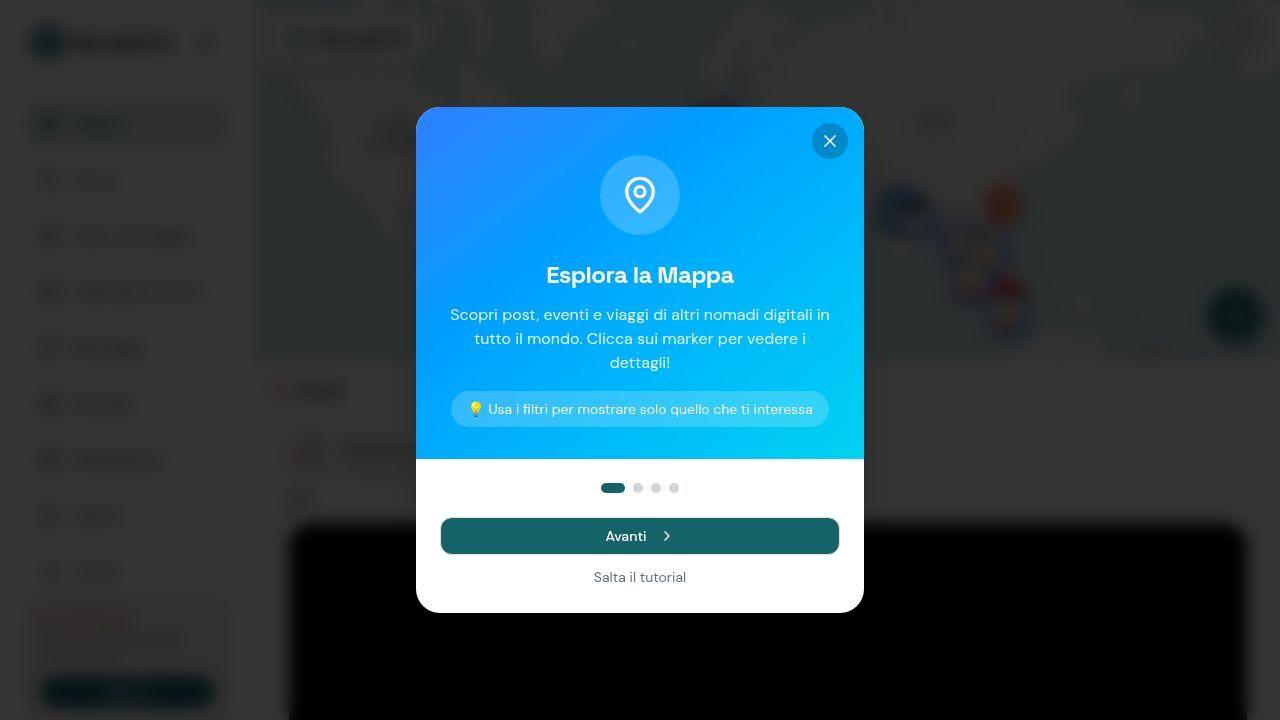
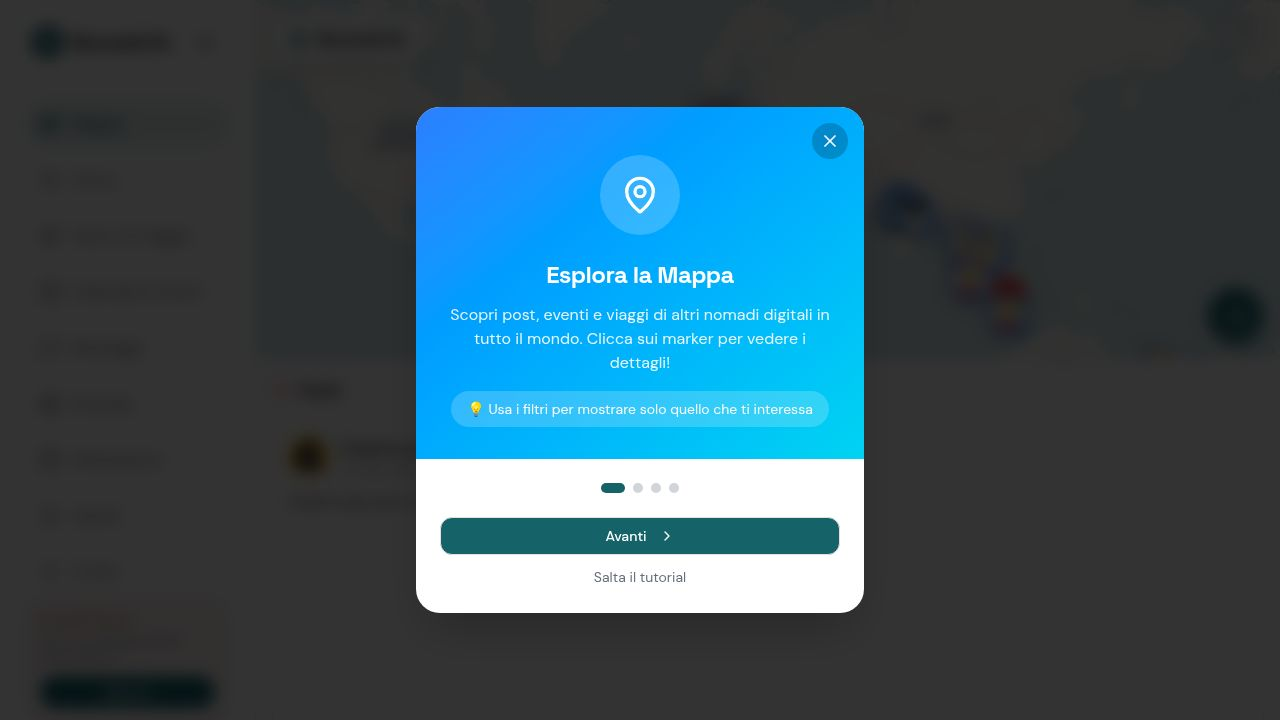
Organize saved posts by time and add timeago display
Adds date grouping and timeago formatting to the saved posts page for better temporal organization.

Replit-Commit-Author: Agent
Replit-Commit-Session-Id: df86f0ff-2318-4ff1-a21b-c09623509764
Replit-Commit-Checkpoint-Type: full_checkpoint
Replit-Commit-Event-Id: 7425e8d1-1d94-4657-a31a-2d4e4a1d25e9
Replit-Commit-Screenshot-Url: https://storage.googleapis.com/screenshot-production-us-central1/2f2ee5f6-d4f3-4be6-99b5-e797923fa171/df86f0ff-2318-4ff1-a21b-c09623509764/fFJnukg
Replit-Helium-Checkpoint-Created: true

Changed region(s): [[0.2188, 0.7028, 1.0, 1.0], [0.2188, 0.6111, 0.25, 0.6722], [0.7812, 0.275, 0.8125, 0.3056]]

diff --git a/client/src/pages/saved-posts.tsx b/client/src/pages/saved-posts.tsx
@@ -1,10 +1,135 @@
-import { useEffect, useState } from "react";
+import { useEffect, useState, useMemo } from "react";
 import Layout from "@/components/layout";
 import { useAuth } from "@/lib/auth";
 import { useLocation } from "wouter";
-import { Bookmark, ArrowLeft, MapPin, Heart, Loader2 } from "lucide-react";
+import { Bookmark, ArrowLeft, MapPin, Heart, Loader2, Clock, Calendar } from "lucide-react";
 import { motion, AnimatePresence } from "framer-motion";
 import { useI18n } from "@/lib/i18n";
+
+function timeAgo(dateStr: string): string {
+  const now = new Date();
+  const date = new Date(dateStr);
+  const diffMs = now.getTime() - date.getTime();
+  const diffMin = Math.floor(diffMs / 60000);
+  const diffH = Math.floor(diffMin / 60);
+  const diffD = Math.floor(diffH / 24);
+
+  if (diffMin < 1) return "Adesso";
+  if (diffMin < 60) return `${diffMin} min fa`;
+  if (diffH < 24) return `${diffH}h fa`;
+  if (diffD === 1) return "Ieri";
+  if (diffD < 7) return `${diffD} giorni fa`;
+  return date.toLocaleDateString("it-IT", { day: "numeric", month: "short", year: diffD > 365 ? "numeric" : undefined });
+}
+
+function groupByPeriod(posts: any[]): { label: string; icon: string; posts: any[] }[] {
+  const now = new Date();
+  const todayStart = new Date(now.getFullYear(), now.getMonth(), now.getDate());
+  const yesterdayStart = new Date(todayStart.getTime() - 86400000);
+  const weekStart = new Date(todayStart.getTime() - 7 * 86400000);
+  const monthStart = new Date(now.getFullYear(), now.getMonth(), 1);
+
+  const groups: Record<string, any[]> = {
+    today: [],
+    yesterday: [],
+    thisWeek: [],
+    thisMonth: [],
+    older: [],
+  };
+
+  for (const saved of posts) {
+    const date = new Date(saved.createdAt);
+    if (date >= todayStart) groups.today.push(saved);
+    else if (date >= yesterdayStart) groups.yesterday.push(saved);
+    else if (date >= weekStart) groups.thisWeek.push(saved);
+    else if (date >= monthStart) groups.thisMonth.push(saved);
+    else groups.older.push(saved);
+  }
+
+  const result: { label: string; icon: string; posts: any[] }[] = [];
+  if (groups.today.length > 0) result.push({ label: "Oggi", icon: "🕐", posts: groups.today });
+  if (groups.yesterday.length > 0) result.push({ label: "Ieri", icon: "📅", posts: groups.yesterday });
+  if (groups.thisWeek.length > 0) result.push({ label: "Questa settimana", icon: "📆", posts: groups.thisWeek });
+  if (groups.thisMonth.length > 0) result.push({ label: "Questo mese", icon: "🗓️", posts: groups.thisMonth });
+  if (groups.older.length > 0) result.push({ label: "Precedenti", icon: "📁", posts: groups.older });
+
+  return result;
+}
+
+function SavedPostCard({ saved, onUnsave, onNavigate }: { saved: any; onUnsave: (id: string) => void; onNavigate: (id: string) => void }) {
+  return (
+    <motion.div
+      layout
+      initial={{ opacity: 0, y: 10 }}
+      animate={{ opacity: 1, y: 0 }}
+      exit={{ opacity: 0, scale: 0.95 }}
+      className="bg-card border border-border rounded-2xl overflow-hidden shadow-sm hover:shadow-md transition-shadow cursor-pointer group"
+      onClick={() => onNavigate(saved.postId)}
+      data-testid={`card-saved-${saved.postId}`}
+    >
+      {saved.post?.imageUrl && (
+        <div className="aspect-video overflow-hidden">
+          <img
+            src={saved.post.imageUrl}
+            className="w-full h-full object-cover group-hover:scale-105 transition-transform duration-500"
+            alt=""
+          />
+        </div>
+      )}
+
+      <div className="p-4">
+        <div className="flex items-center gap-2 mb-2">
+          {saved.post?.user?.avatar ? (
+            <img src={saved.post.user.avatar} className="w-8 h-8 rounded-full object-cover" alt="" />
+          ) : (
+            <div className="w-8 h-8 rounded-full bg-primary/10 flex items-center justify-center text-primary font-bold text-sm">
+              {saved.post?.user?.name?.[0] || "?"}
+            </div>
+          )}
+          <div className="flex-1 min-w-0">
+            <p className="text-sm font-semibold truncate" data-testid={`text-author-${saved.postId}`}>{saved.post?.user?.name || "Nomad"}</p>
+            {saved.post?.location && (
+              <p className="text-xs text-muted-foreground flex items-center gap-1 truncate">
+                <MapPin className="w-3 h-3 flex-shrink-0" />
+                {saved.post.location}
+              </p>
+            )}
+          </div>
+          <span className="text-[10px] text-muted-foreground flex items-center gap-1 whitespace-nowrap" data-testid={`text-saved-date-${saved.postId}`}>
+            <Clock className="w-3 h-3" />
+            {timeAgo(saved.createdAt)}
+          </span>
+        </div>
+
+        {saved.post?.content && (
+          <p className="text-sm text-foreground line-clamp-3 mb-3">{saved.post.content}</p>
+        )}
+
+        <div className="flex items-center justify-between">
+          <div className="flex items-center gap-3 text-xs text-muted-foreground">
+            <span className="flex items-center gap-1">
+              <Heart className="w-3.5 h-3.5" /> {saved.post?.likes || 0}
+            </span>
+            {saved.post?.createdAt && (
+              <span className="flex items-center gap-1">
+                <Calendar className="w-3 h-3" />
+                {new Date(saved.post.createdAt).toLocaleDateString("it-IT", { day: "numeric", month: "short" })}
+              </span>
+            )}
+          </div>
+          <button
+            onClick={(e) => { e.stopPropagation(); onUnsave(saved.postId); }}
+            className="flex items-center gap-1.5 px-3 py-1.5 rounded-full bg-primary/10 text-primary text-xs font-medium hover:bg-red-500/15 hover:text-red-500 transition-colors"
+            data-testid={`button-unsave-${saved.postId}`}
+          >
+            <Bookmark className="w-3.5 h-3.5 fill-current" />
+            Rimuovi
+          </button>
+        </div>
+      </div>
+    </motion.div>
+  );
+}
 
 export default function SavedPosts() {
   const { user, loading: authLoading } = useAuth();
@@ -36,6 +161,8 @@ export default function SavedPosts() {
     } catch (err) { console.error(err); }
   };
 
+  const groups = useMemo(() => groupByPeriod(savedPosts), [savedPosts]);
+
   if (authLoading || loading) {
     return (
       <Layout>
@@ -58,7 +185,7 @@ export default function SavedPosts() {
               <Bookmark className="w-5 h-5 text-primary fill-primary" />
               {t("nav.saved")}
             </h1>
-            <p className="text-sm text-muted-foreground">{savedPosts.length} post</p>
+            <p className="text-sm text-muted-foreground">{savedPosts.length} post salvati</p>
           </div>
         </div>
 
@@ -69,72 +196,29 @@ export default function SavedPosts() {
             <p className="text-sm max-w-xs mx-auto">Tocca il pulsante "Salva" su un post per ritrovarlo qui</p>
           </div>
         ) : (
-          <div className="grid grid-cols-1 sm:grid-cols-2 gap-4" data-testid="grid-saved-posts">
-            <AnimatePresence>
-              {savedPosts.map((saved: any) => (
-                <motion.div
-                  key={saved.id}
-                  layout
-                  initial={{ opacity: 0, scale: 0.9 }}
-                  animate={{ opacity: 1, scale: 1 }}
-                  exit={{ opacity: 0, scale: 0.9 }}
-                  className="bg-card border border-border rounded-2xl overflow-hidden shadow-sm hover:shadow-md transition-shadow cursor-pointer group"
-                  onClick={() => setLocation(`/post/${saved.postId}`)}
-                  data-testid={`card-saved-${saved.postId}`}
-                >
-                  {saved.post?.imageUrl && (
-                    <div className="aspect-video overflow-hidden">
-                      <img
-                        src={saved.post.imageUrl}
-                        className="w-full h-full object-cover group-hover:scale-105 transition-transform duration-500"
-                        alt=""
+          <div className="space-y-6" data-testid="grid-saved-posts">
+            {groups.map((group) => (
+              <section key={group.label}>
+                <div className="flex items-center gap-2 mb-3 sticky top-0 bg-card/95 backdrop-blur-sm py-2 z-10">
+                  <span className="text-base">{group.icon}</span>
+                  <h2 className="text-sm font-bold text-foreground" data-testid={`section-${group.label}`}>{group.label}</h2>
+                  <span className="text-xs text-muted-foreground bg-muted px-2 py-0.5 rounded-full">{group.posts.length}</span>
+                  <div className="flex-1 h-px bg-border ml-2" />
+                </div>
+                <div className="grid grid-cols-1 sm:grid-cols-2 gap-4">
+                  <AnimatePresence>
+                    {group.posts.map((saved: any) => (
+                      <SavedPostCard
+                        key={saved.id}
+                        saved={saved}
+                        onUnsave={handleUnsave}
+                        onNavigate={(postId) => setLocation(`/post/${postId}`)}
                       />
-                    </div>
-                  )}
-
-                  <div className="p-4">
-                    <div className="flex items-center gap-2 mb-2">
-                      {saved.post?.user?.avatar ? (
-                        <img src={saved.post.user.avatar} className="w-8 h-8 rounded-full object-cover" alt="" />
-                      ) : (
-                        <div className="w-8 h-8 rounded-full bg-primary/10 flex items-center justify-center text-primary font-bold text-sm">
-                          {saved.post?.user?.name?.[0] || "?"}
-                        </div>
-                      )}
-                      <div className="flex-1 min-w-0">
-                        <p className="text-sm font-semibold truncate" data-testid={`text-author-${saved.postId}`}>{saved.post?.user?.name || "Nomad"}</p>
-                        {saved.post?.location && (
-                          <p className="text-xs text-muted-foreground flex items-center gap-1 truncate">
-                            <MapPin className="w-3 h-3 flex-shrink-0" />
-                            {saved.post.location}
-                          </p>
-                        )}
-                      </div>
-                    </div>
-
-                    {saved.post?.content && (
-                      <p className="text-sm text-foreground line-clamp-3 mb-3">{saved.post.content}</p>
-                    )}
-
-                    <div className="flex items-center justify-between">
-                      <div className="flex items-center gap-3 text-xs text-muted-foreground">
-                        <span className="flex items-center gap-1">
-                          <Heart className="w-3.5 h-3.5" /> {saved.post?.likes || 0}
-                        </span>
-                      </div>
-                      <button
-                        onClick={(e) => { e.stopPropagation(); handleUnsave(saved.postId); }}
-                        className="flex items-center gap-1.5 px-3 py-1.5 rounded-full bg-primary/10 text-primary text-xs font-medium hover:bg-red-500/15 hover:text-red-500 transition-colors"
-                        data-testid={`button-unsave-${saved.postId}`}
-                      >
-                        <Bookmark className="w-3.5 h-3.5 fill-current" />
-                        Rimuovi
-                      </button>
-                    </div>
-                  </div>
-                </motion.div>
-              ))}
-            </AnimatePresence>
+                    ))}
+                  </AnimatePresence>
+                </div>
+              </section>
+            ))}
           </div>
         )}
       </div>